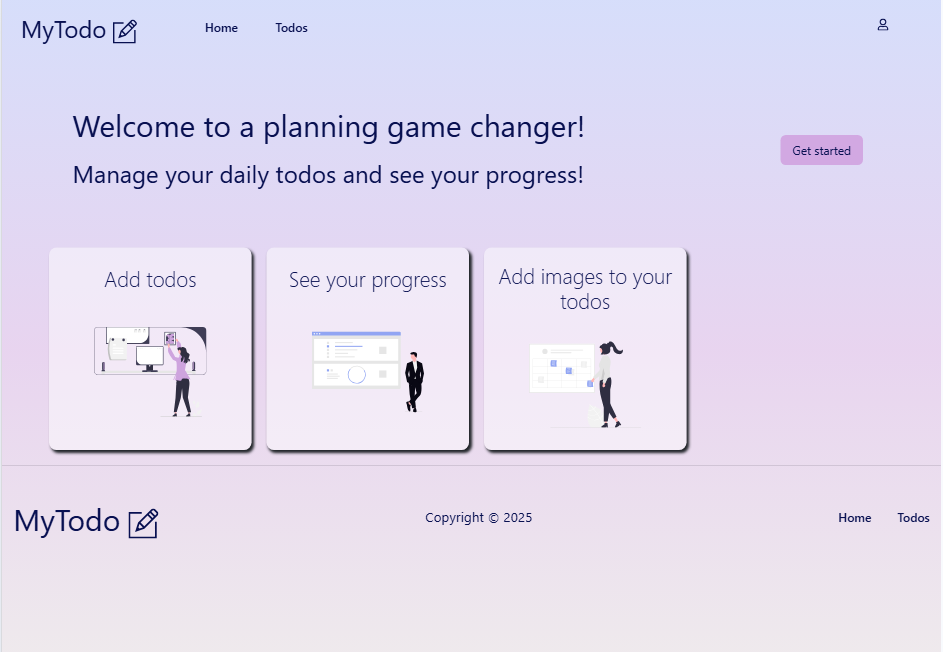
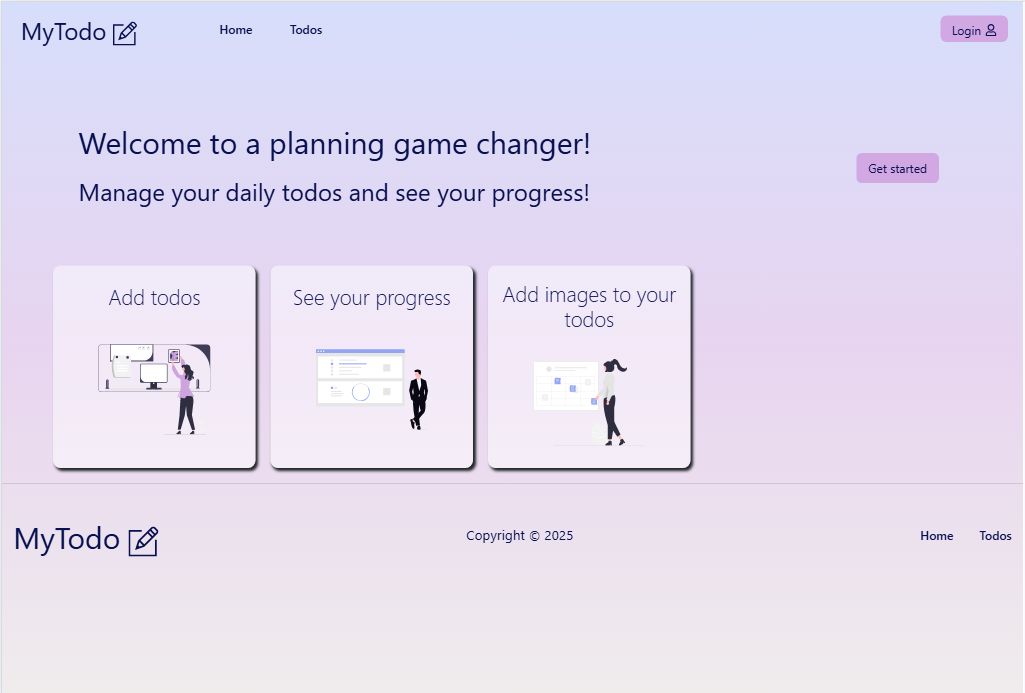
added another project card and updated small changes to text in hero, about and experience section

diff --git a/src/data.ts b/src/data.ts
@@ -1,7 +1,8 @@
 import todoImg from "../src/assets/todoProjectImg.png";
 import minigameImg from "../src/assets/miniGameProjectImg.png";
 import recipeImg from "../src/assets/recipeProjectImg.png";
-import internshi1picture from "../src/assets/intership1.png";
+import otuslisterImg from "../src/assets/otuslisterimg.png";
+import flowConfigImg from "../src/assets/flowConfig.png";
 export interface Project {
   id: number;
   title: string;
@@ -18,7 +19,16 @@ export const projects: Project[] = [
     title: "MyTodo",
     description:
       "This is a full-stack todo web app I built as a part of the Fullstack course in the Frontend Developer program. You can manage and add tasks with a fun side of adding images to your tasks. ",
-    tags: ["React", "TypeScript", "SQLite", "Express/Node js", "CSS", "HTML"],
+    tags: [
+      "React",
+      "TypeScript",
+      "SQLite",
+      "Express/Node.js",
+      "Jest",
+      "Vitest",
+      "CSS",
+      "HTML",
+    ],
     githubUrl: "https://github.com/maryam891/Fullstack-project-Todowebbapp",
     liveUrl: "https://fullstack-project-todowebbapp.vercel.app",
     img: todoImg,
@@ -50,7 +60,25 @@ export const projects: Project[] = [
       "A project from my first internship at Viscando AB, where I was responsible for frontend development and some backend work, including API calls with Node.js. The tool visualized VPN/locally connected systems. I also wrote React unit tests using Jest and Vitest.",
     githubUrl: "",
     liveUrl: "",
-    img: internshi1picture,
-    tags: ["React", "Node js", "CSS", "HTML", "Jest", "Vitest"],
+    img: otuslisterImg,
+    tags: ["React", "TypeScript", "Node.js", "CSS", "HTML", "Jest", "Vitest"],
+  },
+  {
+    id: 5,
+    title: "Flow configuration",
+    description:
+      "Currently doing my second internship at Viscando AB, where I am building a user interface for a camera system. The UI visualizes camera configurations using React Flow and JSON Forms, built with React, TypeScript and Node.js.",
+    githubUrl: "",
+    liveUrl: "",
+    img: flowConfigImg,
+    tags: [
+      "React",
+      "TypeScript",
+      "Node.js",
+      "React Flow",
+      "JSON Forms",
+      "CSS",
+      "HTML",
+    ],
   },
 ];

diff --git a/src/components/About.tsx b/src/components/About.tsx
@@ -2,8 +2,8 @@
 import '../css/About.css'
 
 const skills = [
-  { label: 'Programming Language & Frameworks', items: 'React · TypeScript · JavaScript · HTML & CSS · UX/UI Design · Graphic design · Node.js/Express · SQL/SQLite · Vue.js · WordPress' },
-  { label: 'Tools', items: 'Git · Jira · React bootstrap · Vitest · Jest · Figma' },
+  { label: 'Programming Language & Frameworks', items: 'React · TypeScript · JavaScript · HTML & CSS · UX/UI Design · Graphic design · Node.js/Express · SQL/SQLite · Vue.js' },
+  { label: 'Tools', items: 'Git · Jira · React bootstrap · Vitest · Jest · Figma · WordPress' },
   { label: 'Language', items: 'Swedish · English · Urdu' },
 ]
 
@@ -14,8 +14,8 @@ export default function About() {
       <div className={"about-label"}><h2 >About me</h2></div>
       <div className={"main-about-container"} >
         <div className={"about-text-container"}>
-          <p>I am currently studying my last term at IT-Högskolan as a Frontend Developer, with a background in UX & UI design. That combinations means I that I think both through the user's perspective while also thinking about code, seeing the two as a whole.</p>
-          <p>Right now I am doing my second internship at Viscando AB, where I also had my first internship. At Viscando I am building a visual user interface with React, TypeScript, JSON Forms and React Flow. I thrive in a structured team where we can share ideas and learn from each other.</p>
+          <p>I am currently studying my last term at IT-Högskolan as a Frontend Developer, with a background in UX & UI design. That combination means that I think both through the user's perspective while also thinking about code, seeing the two as a whole.</p>
+          <p>Right now I am doing my second internship at Viscando AB, where I am building a visual user interface for a camera system. I thrive in a structured team where we can share ideas and learn from each other. I am always looking to grow and take on new challenges.</p>
           <p>I am graduating in June 2026 and actively looking for my first role as a Frontend Developer!</p>
         </div>
         <div className={"skills-container"}>

diff --git a/src/components/Experience.tsx b/src/components/Experience.tsx
@@ -15,11 +15,11 @@ export default function Experience() {
           <p>
             I am currently doing my second internship at Viscando AB. During my
             first internship I built an application with React and TypeScript for
-            visualisation of VPN/locally connected systems, and wrote unit tests
+            visualization of VPN/locally connected systems, and wrote unit tests
             with Jest and Vitest.
           </p>
           <p>
-            In my second internship I am collaborating with a teammate to build a user
+            In my second internship I am working in a team to build a user
             interface for a camera system using React, TypeScript, Node.js, React Flow
             and JSON Forms.
           </p>

diff --git a/src/components/Projects.tsx b/src/components/Projects.tsx
@@ -24,8 +24,7 @@ export default function Projects() {
               </>
             ) : (
               <>
-                <p style={{ marginTop: "10px", marginBottom: "20px" }}>Code:</p>
-                <p className='project-text'>Unavailable</p>
+
               </>
             )}
 
@@ -38,8 +37,7 @@ export default function Projects() {
               </>
             ) : (
               <>
-                <p style={{ marginTop: "10px", marginBottom: "20px" }}>Live demo:</p>
-                <p className='project-text'>Unavailable</p>
+
               </>
             )}
           </div>

diff --git a/src/components/Hero.tsx b/src/components/Hero.tsx
@@ -9,7 +9,7 @@ export default function Hero() {
           Frontend<br /><em>Developer</em>
         </h1>
         <p className={"hero-text"}>
-          A programmer with a passion for implementing fun and creative user friendly applications.
+          A frontend developer with a passion for implementing fun, creative and user-friendly applications.
         </p>
         <div className={"hero-links-container"}>
           <a href="#Projects" className={"see-project-link"}>View projects →</a>
